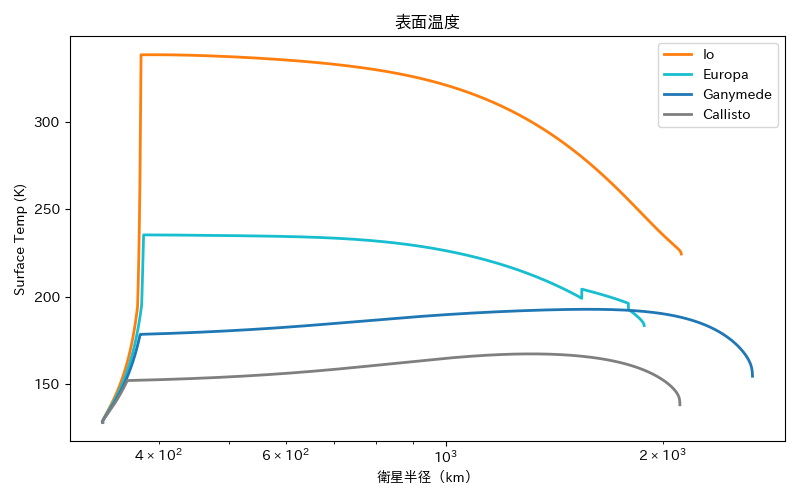
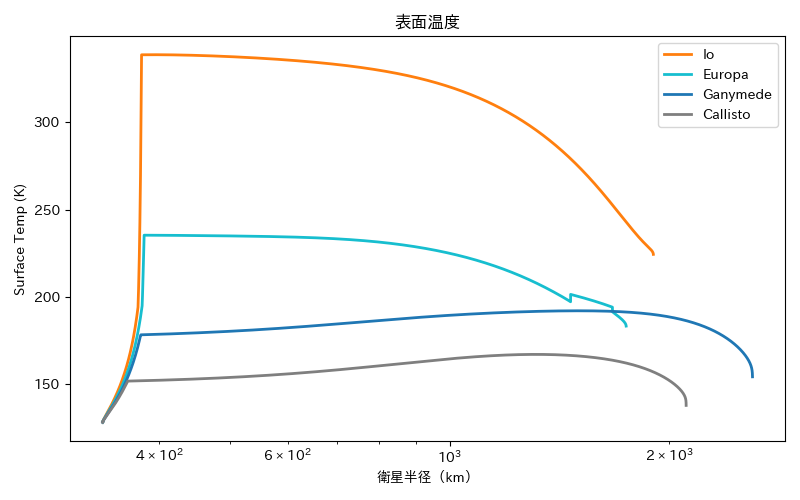
ダストの内部密度1.0e-1 g/cm-3の状態で、ぺブルフラックスの式を修正

diff --git a/gallilean_central_flax.py b/gallilean_central_flax.py
@@ -28,9 +28,10 @@ L_sun_early = 0.70 * L_sun # 形成初期の太陽光度 (現在の75%)
 T_bg = (L_sun_early / (16.0 * np.pi * a_J**2 * sigma_sb))**0.25 # 太陽輻射による木星軌道付近の平衡温度 
 rho_ice = 1.4              # 氷の密度 (g/cm^3)
 rho_rock = 3.0             # 岩石の密度 (g/cm^3)
-rho_int= 1.0e-3                # ふわふわのダストの密度 (g/cm^3)
+rho_int= 1.4e-1                # ふわふわのダストの密度 (g/cm^3)
 
-# ==========================================
+# ====================
+# ======================
 # 事前準備：物理量を計算する関数群
 # ==========================================
 
@@ -220,8 +221,8 @@ def calculate_disk_mass(M_cp_kg, M_dot_g_kg_s, alpha, r_gg, L_cp):
 # ---------------------------------------------------------
 # 【変更】ペブルのバトンパス方式に対応したストークス数計算関数
 # ---------------------------------------------------------
-def calculate_st_p_integrated_relay(M_cp_kg, M_dot_g_kg_s, alpha, r_gg, L_cp, local_M_dot_p, target_r, start_r, start_R_d, rho_int):
-    if M_dot_g_kg_s <= 1e-15 or local_M_dot_p <= 1e-15:
+def calculate_st_p_integrated_relay(M_cp_kg, M_dot_g_kg_s, alpha, r_gg, L_cp, current_M_dot_p, target_r, start_r, start_R_d, rho_int):
+    if M_dot_g_kg_s <= 1e-15 or current_M_dot_p <= 1e-15:
         return 1e-10, start_R_d
 
     # 距離が近い（あるいは追い越している）場合は積分せずそのまま返す
@@ -257,9 +258,9 @@ def calculate_st_p_integrated_relay(M_cp_kg, M_dot_g_kg_s, alpha, r_gg, L_cp, lo
             T_snow_curr = 6070.0 / (30.86 - np.log(P_H2O_curr))
             
             # 道中の環境が雪線より内側ならフラックスを半分にして成長を計算
-            local_M_dot_p_curr = current_M_dot_p * 0.5 if T_d >= T_snow_curr else current_M_dot_p
+            current_M_dot_p_curr = current_M_dot_p * 0.5 if T_d >= T_snow_curr else current_M_dot_p
 
-            term_num = local_M_dot_p * (Sigma_g**0.25)
+            term_num = current_M_dot_p_curr * (Sigma_g**0.25)
             term_den = ( (2.0**(39.0/8.0)) * (np.pi**(13.0/8.0)) * (alpha**0.5) * 
                          (rho_int**1.25) * (eta_safe**0.75) * v_K * (H_g**1.25) * (r_curr**0.75) )
             F_r = term_num / term_den
@@ -648,6 +649,7 @@ while t_year <= t_max_year:
     active_sats.sort(key=lambda s: s.r_orb, reverse=True)
     
     current_M_dot_p = M_dot_p_base
+    
 
     # ★ 追加: ペブルの初期状態（円盤外縁）をセット
     current_pebble_r = 50.0 * R_J
@@ -661,6 +663,7 @@ while t_year <= t_max_year:
         if np.isnan(T_d): continue
 
         # ★ 追加・修正: 衛星の現在位置における「局所的なスノーライン温度 (T_snow_local)」を計算
+        
         v_K = np.sqrt(G * M_cp_kg / sat.r_orb)
         Omega_K = v_K / sat.r_orb
         c_s_local = np.sqrt((k_B * T_d) / m_g)
@@ -671,9 +674,6 @@ while t_year <= t_max_year:
         P_H2O_local = max(X_H2O * P_gas_local, 1e-20)
         T_snow_local = 6070.0 / (30.86 - np.log(P_H2O_local))
             
-        # 修正: 全体共通の T_snow_val ではなく、局所の T_snow_local を使う
-        local_M_dot_p = current_M_dot_p * 0.5 if T_d >= T_snow_local else current_M_dot_p
-       
         eta, H_g = calculate_eta(M_cp_kg, M_dot_g_kg_s, sat.r_orb, alpha, r_gg, L_cp)
         
         # ★ 修正: 前の場所(current_pebble_r)から自分の場所(sat.r_orb)までだけ計算してバトンを受け取る
@@ -696,14 +696,21 @@ while t_year <= t_max_year:
         mu_s = calculate_mu_s(sat.M_s, M_cp_kg)
         delta_v = calculate_delta_v(mu_s, eta, st_p, v_K)
         P_eff = calculate_P_eff(mu_s, delta_v, v_K, st_p, eta, h_p)
-        
-        M_dot_s = local_M_dot_p * P_eff
 
-        # スノーラインの内側なら、フラックスを半分（岩石のみ）にする
+        # ★ 追加必須: 雪線の内側なら、現場のフラックスを半分（岩石のみ）にする！
         local_M_dot_p = current_M_dot_p * 0.5 if T_d >= T_snow_local else current_M_dot_p
-
-        # その半分に減った岩石フラックスをベースに、捕獲量 M_dot_s を計算する
+        
+        # 現場のフラックスをベースに、捕獲量 M_dot_s を計算する
         M_dot_s = local_M_dot_p * P_eff
+
+        # ★ 修正: 奪われたペブル分を全体の基準フラックス(current_M_dot_p)から引く際の論理
+        # 雪線より内側で純粋な岩石を M_dot_s 奪った場合、氷を含めた全体の基準フラックスとしては 2倍 減らすのが物理的に正しい
+        if T_d >= T_snow_local:
+            current_M_dot_p = current_M_dot_p - (M_dot_s * 2.0)
+        else:
+            current_M_dot_p = current_M_dot_p - M_dot_s
+
+        
 
         # 修正: ここでも局所の T_snow_local を使う
         f_ice = 0.5 if T_d < T_snow_local else 0.0
@@ -1120,7 +1127,7 @@ for t_snap, col in zip(snapshot_times, colors_snap):
     valid_r_RJ = []
 
     for r_val in r_array:
-        p, q = calculate_p_q(M_cp_kg, M_dot_g_kg_s, r_val, alpha, r_gg L_cp)
+        p, q = calculate_p_q(M_cp_kg, M_dot_g_kg_s, r_val, alpha, r_gg, L_cp)
         T_d, Sigma_g = calculate_disk_structure(M_cp_kg, M_dot_g_kg_s, r_val, alpha, r_gg, L_cp, q_guess=q)
 
         if np.isnan(T_d):
